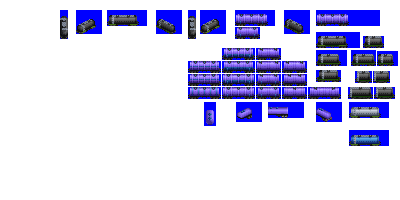
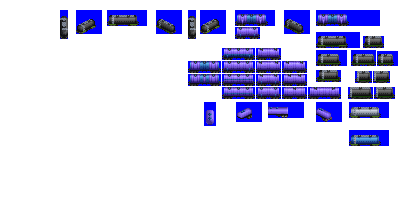
Change: tank car stuff

diff --git a/src/graphics_processor/graphics_constants.py b/src/graphics_processor/graphics_constants.py
@@ -26,9 +26,9 @@ vehicles_input_dir = 'vehicles'
 # try it and see what happens eh?
 # DFLT label is a hack to provide specific livery for unknown cargos and should not be added to cargo translation table
 tanker_livery_recolour_maps = (("OIL_", {136: 1, 137: 2, 138: 3, 139: 4, 140: 5, 141: 6, 142: 7, 143: 8}), # see note on oil above
-                               ("DFLT", {136: 80, 137: 81, 138: 82, 139: 83, 140: 84, 141: 85, 142: 86, 143: 87}), # see note on DFLT above
+                               ("DFLT", {136: 198, 137: 199, 138: 200, 139: 201, 140: 202, 141: 203, 142: 204, 143: 205}), # see note on DFLT above
                                ("SULP", {136: 62, 137: 63, 138: 64, 139: 65, 140: 66, 141: 67, 142: 68, 143: 69}),
-                               ("RFPR", {136: 198, 137: 199, 138: 200, 139: 201, 140: 202, 141: 203, 142: 204, 143: 205}),
+                               ("RFPR", {136: 80, 137: 81, 138: 82, 139: 83, 140: 84, 141: 85, 142: 86, 143: 87}), # deliberately 2CC to allow combining with 1CC livery details
                                ("RUBR", {136: 40, 137: 41, 138: 42, 139: 43, 140: 44, 141: 45, 142: 46, 143: 47}),
                                ("PETR", {136: 16, 137: 17, 138: 18, 139: 19, 140: 20, 141: 21, 142: 22, 143: 23}))
                             #DYES
